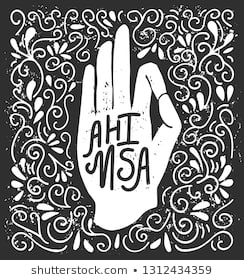
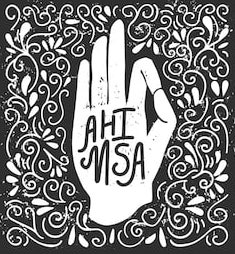
added classes with strongs for names and meanings of the yamas and niyamas

diff --git a/src/components/Navigation2.js b/src/components/Navigation2.js
@@ -40,51 +40,51 @@ class Navigation2 extends Component {
     <div id="tenLimbs">
       <div className="linksContainer">
        <section className="flipBack">
-        <NavLink className="linkStyle"  to="/Yama1"><img className="linkStyle" src={ahimsa} />
-        <div className="flipDiv"><img className="linkStyle" src={ahi} /></div>
+        <NavLink className="linkStyle"  to="/Yama1"><img className="linkStyle" src={ahi} />
+        <div className="flipDiv"><img className="linkStyle" src={ahimsa} /></div>
       </NavLink><br/>
        </section>
        <section className="flipBack">
-        <NavLink className="linkStyle"  to="/Yama2"><img className="linkStyle" src={asteya} />
-        <div className="flipDiv"><img className="linkStyle" src={ast} /></div>
+        <NavLink className="linkStyle"  to="/Yama2"><img className="linkStyle" src={ast} />
+        <div className="flipDiv"><img className="linkStyle" src={asteya} /></div>
       </NavLink><br/>
        </section>
        <section className="flipBack">
-        <NavLink className="linkStyle"  to="/Yama3"><img className="linkStyle" src={satya} />
-        <div className="flipDiv"><img className="linkStyle" src={sat} /></div>
+        <NavLink className="linkStyle"  to="/Yama3"><img className="linkStyle" src={sat} />
+        <div className="flipDiv"><img className="linkStyle" src={satya} /></div>
       </NavLink><br/>
        </section>
        <section className="flipBack">
-        <NavLink className="linkStyle"  to="/Yama4"><img className="linkStyle" src={brama} />
-        <div className="flipDiv"><img className="linkStyle" src={bra} /></div>
+        <NavLink className="linkStyle"  to="/Yama4"><img className="linkStyle" src={bra} />
+        <div className="flipDiv"><img className="linkStyle" src={brama} /></div>
       </NavLink><br/>
        </section>
        <section className="flipBack">
-               <NavLink className="linkStyle"  to="/Yama5"><img className="linkStyle" src={apar} />
-               <div className="flipDiv"><img className="linkStyle" src={apa} /></div>
+               <NavLink className="linkStyle"  to="/Yama5"><img className="linkStyle" src={apa} />
+               <div className="flipDiv"><img className="linkStyle" src={apar} /></div>
              </NavLink><br/>
        </section>
       </div>
         <div className="linksContainer2">
          <section className="flipBack" >
-          <NavLink className="linkStyle"  to="/Niyama2"><img className="linkStyle" src={santosha} />
-          <div className="flipDiv"><img className="linkStyle" src={san} /></div></NavLink><br/>
+          <NavLink className="linkStyle"  to="/Niyama2"><img className="linkStyle" src={san} />
+          <div className="flipDiv"><img className="linkStyle" src={santosha} /></div></NavLink><br/>
          </section>
          <section className="flipBack">
-          <NavLink className="linkStyle"  to="/Niyama1"><img className="linkStyle" src={shaucha} />
-          <div className="flipDiv"><img className="linkStyle" src={sau} /></div></NavLink><br/>
+          <NavLink className="linkStyle"  to="/Niyama1"><img className="linkStyle" src={sau} />
+          <div className="flipDiv"><img className="linkStyle" src={shaucha} /></div></NavLink><br/>
          </section>
          <section className="flipBack">
-          <NavLink className="linkStyle"  to="/Niyama3"><img className="linkStyle" src={fire} />
-          <div className="flipDiv"><img className="linkStyle" src={tapa} /></div></NavLink><br/>
+          <NavLink className="linkStyle"  to="/Niyama3"><img className="linkStyle" src={tapa} />
+          <div className="flipDiv"><img className="linkStyle" src={fire} /></div></NavLink><br/>
          </section>
          <section className="flipBack">
-                <NavLink className="linkStyle"  to="/Niyama4"><img className="linkStyle" src={svad} />
-                <div className="flipDiv"><img className="linkStyle" src={sva} /></div></NavLink><br/>
+                <NavLink className="linkStyle"  to="/Niyama4"><img className="linkStyle" src={sva} />
+                <div className="flipDiv"><img className="linkStyle" src={svad} /></div></NavLink><br/>
          </section>
          <section className="flipBack">
-                 <NavLink className="linkStyle"  to="/Niyama5"><img className="linkStyle" src={isva} />
-                 <div className="flipDiv"><img className="linkStyle" src={ish} /></div></NavLink><br/>
+                 <NavLink className="linkStyle"  to="/Niyama5"><img className="linkStyle" src={ish} />
+                 <div className="flipDiv"><img className="linkStyle" src={isva} /></div></NavLink><br/>
          </section>
       </div>
     </div>

diff --git a/src/components/Yama1.js b/src/components/Yama1.js
@@ -5,7 +5,7 @@ var Yama = {
   'meaning':'Non Violence',
   'blog': `Ahimsa is a vow of responsibility toward the sanctum of innocence. We vow to not harm others or the self. Violence is considered any sort of ill will towards life.
   When we do Yoga we empower life. With any excercise, we work on better health, and ultimately better being. When we meditate, we let go of emotions and drives. In a mindstate of peace and tranquility we deepen our understanding of tolerance, respect and trust. NonViolence means a better quality of life from within what we control, and also the vibes we give out as to receive better quality treatment from characters me may need to depend on.
-  When we exercise we should pay attention to what hurts. We should make consideration towards our self just as we should towards others. Being respectful to your knees, shoulders, and such leads to a more fulfilling and therapeutic result. It is violent to contort and pound on our bodies in order to fulfill some desire to do so. Being careful brings us to an elevated consciousness of what is truly good for us, and ultimately an impowered intuition. 
+  When we exercise we should pay attention to what hurts. We should make consideration towards our self just as we should towards others. Being respectful to your knees, shoulders, and such leads to a more fulfilling and therapeutic result. It is violent to contort and pound on our bodies in order to fulfill some desire to do so. Being careful brings us to an elevated consciousness of what is truly good for us, and ultimately an impowered intuition.
   `
 }
 class Yama1 extends Component {
@@ -13,6 +13,8 @@ class Yama1 extends Component {
 
       return (
         <div className="blogContainer">
+        <strong className="name">{Yama.name}</strong><br/>
+        <strong className="meaning">{Yama.meaning}</strong><br/>
           <p className="blog">{Yama.blog}
           </p>
         </div>

diff --git a/src/components/Yama4.js b/src/components/Yama4.js
@@ -3,13 +3,17 @@ import React, { Component } from 'react';
 var Yama = {
   'name':'Brahmacharia',
   'meaning':'Restraint',
-  'blog': `Brahmacharia is denying ourselves bad habits. Traditionaly it is referred to as celibacy. It applies to all `
+  'blog': `Brahmacharia is preventing ourselves from engaging in overstimulation. Traditionaly it is referred to as celibacy. It applies to all indulgences of life as well.
+  There is nothing wrong with enjoying the sweet stuff in life. To be ruled by your pleasures though is self defeating in many ways. If you are in a relationship, you obviously shouldnt be looking for sexual gratification elsewhere. If you have had enough food, you shouldnt eat yourself into an unhealthy state. There is nothing wrong with an alcoholic beverage here and there, but alcoholism comes with a whole host of dangerous consequences.
+  We can improve our commitment to brahmacharya on the mat. Mainly through meditation. If we can be happy in our own mind and skin, we can avoid unhealthy temptations. The physical practices of the asanas are good as well. When we direct our energy inward, as we do when we exercise our bodies, we shift the focus away from external pleasures. Brahmacharia leads us into a balanced, healthy, and empowered lifestyle. We should take control of our lives, and not allow our journey through life to spin out of control.`
 }
 class Yama4 extends Component {
     render() {
 
       return (
         <div className="blogContainer">
+        <strong className="name">{Yama.name}</strong><br/>
+        <strong className="meaning">{Yama.meaning}</strong><br/>
           <p className="blog">{Yama.blog}
           </p>
         </div>

diff --git a/src/App.css b/src/App.css
@@ -110,23 +110,37 @@ transform-origin: top;
 }
 
 .linkStyle:hover{
-  animation: 1000ms 1 normal running forwards spins;
-  background-color: black;
-  width:200px;
-  height:200px;
-  padding: .5em;
-    backface-visibility: hidden;
+
 }
 
 .flipBack{
-  position: relative
+  position: relative;
+}
+
+.flipBack:hover{
+  position: relative;
+  
 }
 
 .flipDiv{
   position:absolute;
   top:0;
-  left:0
+  left:0;
+  background-color: black;
+  width:200px;
+  height:200px;
+  padding: .5em;
+
 }
+.flipDiv:hover{
+  animation: 1000ms 1 normal running forwards spins90;
+  background-color: black;
+  width:200px;
+  height:200px;
+  padding: .5em;
+  backface-visibility: hidden;
+}
+
 .ahimsa{
   background-image: './pictures/Sacral-Chakra-Symbol-1.jpg'
 }
@@ -154,7 +168,6 @@ color:white;
 
 
 .Spins{
-
   color: white;
   padding: 3em;
   font-weight: bold;
@@ -164,7 +177,6 @@ color:white;
   animation: 1000ms 1 normal running forwards spins;
   transform-style: preserve-3d;
   transform-origin: top;
-
 }
 
 
@@ -184,6 +196,15 @@ color:white;
   }
   to {
     transform: rotateY(180deg);
+  }
+}
+
+@keyframes spins90 {
+  from {
+    transform: rotateY(0);
+  }
+  to {
+    transform: rotateY(90deg);
   }
 }
 

diff --git a/src/components/Niyama1.js b/src/components/Niyama1.js
@@ -12,6 +12,8 @@ class Niyama1 extends Component {
 
       return (
         <div className="NiyamaContainer">
+        <strong className="name">{Niyama.name}</strong><br/>
+        <strong className="meaning">{Niyama.meaning}</strong><br/>
           <p className="Niyama">{Niyama.blog}
           </p>
         </div>

diff --git a/src/components/Niyama2.js b/src/components/Niyama2.js
@@ -13,6 +13,8 @@ class Niyama2 extends Component {
 
       return (
         <div className="NiyamaContainer">
+        <strong className="name">{Niyama.name}</strong><br/>
+        <strong className="meaning">{Niyama.meaning}</strong><br/>
           <p className="Niyama">{Niyama.blog}
           </p>
         </div>

diff --git a/src/components/Niyama3.js b/src/components/Niyama3.js
@@ -13,6 +13,8 @@ class Niyama3 extends Component {
 
       return (
         <div className="NiyamaContainer">
+        <strong className="name">{Niyama.name}</strong><br/>
+        <strong className="meaning">{Niyama.meaning}</strong><br/>
           <p className="Niyama">{Niyama.blog}
           </p>
         </div>

diff --git a/src/components/Niyama4.js b/src/components/Niyama4.js
@@ -13,6 +13,8 @@ class Niyama4 extends Component {
 
       return (
         <div className="NiyamaContainer">
+        <strong className="name">{Niyama.name}</strong><br/>
+        <strong className="meaning">{Niyama.meaning}</strong><br/>
           <p className="Niyama">{Niyama.blog}
           </p>
         </div>

diff --git a/src/components/Niyama5.js b/src/components/Niyama5.js
@@ -11,6 +11,8 @@ class Niyama5 extends Component {
 
       return (
         <div className="NiyamaContainer">
+        <strong className="name">{Niyama.name}</strong><br/>
+        <strong className="meaning">{Niyama.meaning}</strong><br/>
           <p className="Niyama">{Niyama.blog}
           </p>
         </div>

diff --git a/src/components/Yama2.js b/src/components/Yama2.js
@@ -12,6 +12,8 @@ class Yama2 extends Component {
 
       return (
         <div className="blogContainer">
+        <strong className="name">{Yama.name}</strong><br/>
+        <strong className="meaning">{Yama.meaning}</strong><br/>
           <p className="blog">{Yama.blog}
           </p>
         </div>

diff --git a/src/components/Yama3.js b/src/components/Yama3.js
@@ -12,6 +12,8 @@ class Yama3 extends Component {
 
       return (
         <div className="blogContainer">
+        <strong className="name">{Yama.name}</strong><br/>
+        <strong className="meaning">{Yama.meaning}</strong><br/>
           <p className="blog">{Yama.blog}
           </p>
         </div>

diff --git a/src/components/Yama5.js b/src/components/Yama5.js
@@ -10,6 +10,8 @@ class Yama5 extends Component {
 
       return (
         <div className="blogContainer">
+        <strong className="name">{Yama.name}</strong><br/>
+        <strong className="meaning">{Yama.meaning}</strong><br/>
           <p className="blog">{Yama.blog}
           </p>
         </div>
